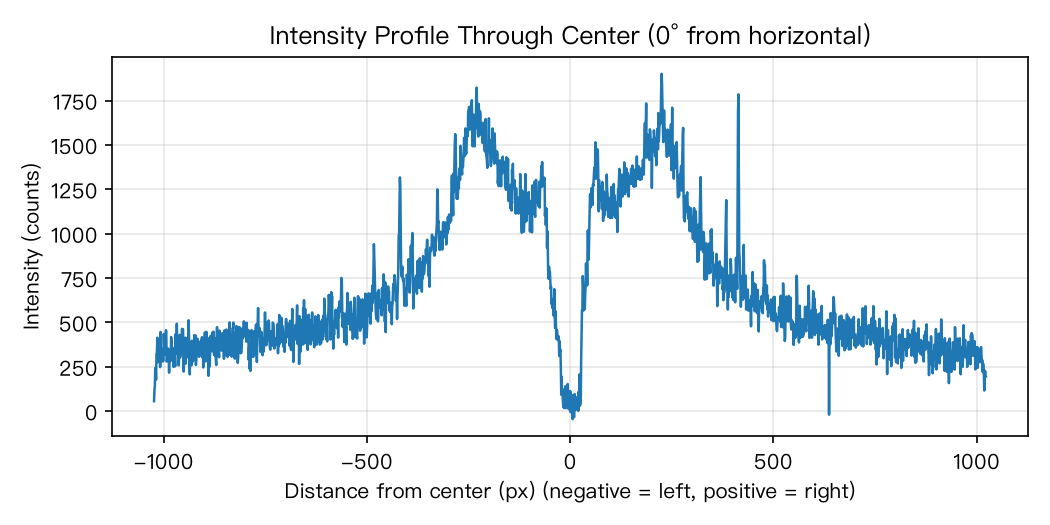
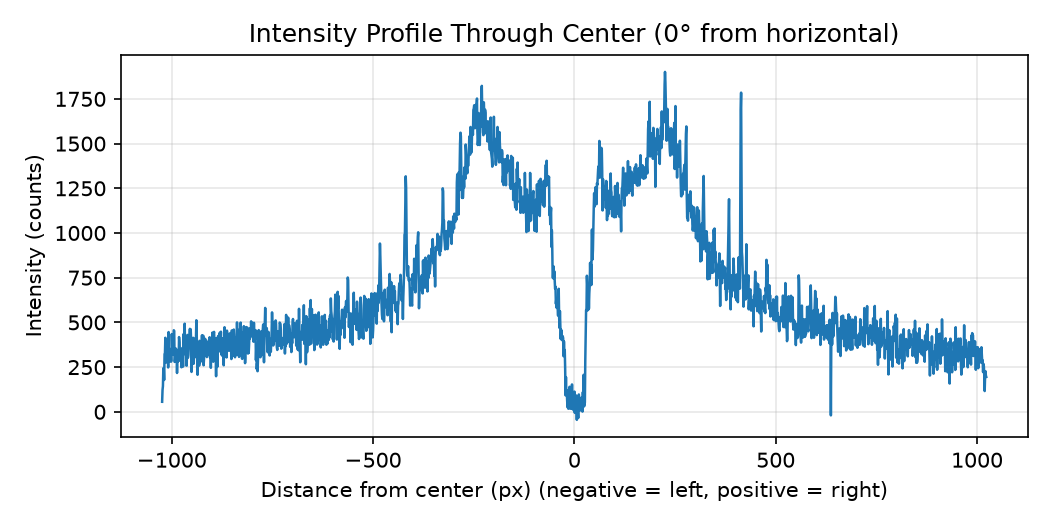
fix: prevent text clipping in diffraction figures

Changed region(s): [[0.0, 0.0305, 0.9752, 0.8229], [0.1219, 0.8229, 0.9752, 0.9752]]

diff --git a/scripts/view_diffraction.py b/scripts/view_diffraction.py
@@ -1,60 +1,36 @@
 #!/usr/bin/env python3
-"""二维衍射图查看器：显示图像（颜色条 + 坐标轴标签）并绘制过圆心的线剖面。
-
-用法（在项目根目录运行）：
-    python scripts/view_diffraction.py --file data/LMFP_1_atten0-00029 copy.tif
-    python scripts/view_diffraction.py --file data/你的文件.tif --center 1020,1024
-    python scripts/view_diffraction.py --file data/你的文件.tif --angle 45
-
-名词速查：
-    像素 (px)      —— 探测器上的一个小格子，图上的最小单元
-    强度 (counts)  —— 一个像素收到的 X 射线光子计数，越大越亮
-    圆心/光斑中心  —— 所有衍射环共同的中心（直射光束打在探测器上的位置）
-    线剖面          —— 沿一条直线把强度读出来，变成"位置 → 强度"的曲线
+"""查看二维衍射图像，并绘制穿过中心的线性剖面图.
 """
 
-# ══ 第 1 步：导入需要的工具包 ══════════════════════════════════════
-# import 的意思是"把别人（或自己）写好的代码拿过来用"。
-# 每行 import 都只拿我们真正用到的东西，没有多余导入。
+import argparse
+from pathlib import Path
 
-import argparse                 # Python 自带的"命令行参数解析器"：读懂用户敲的命令
-from pathlib import Path        # 处理文件路径的现代工具（比字符串拼路径好用）
+from matplotlib.colors import LogNorm
+import matplotlib.pyplot as plt
 
-import numpy as np              # 数值计算核心库；np.xxx 都是它的功能
-from matplotlib.colors import LogNorm   # 画图时把强度转成"对数色标"
-import matplotlib.pyplot as plt         # 画图库，plt.xxx 都是它的功能
-
-from xrd_toolkit.config import settings                   # 自己的：全局配置
-from xrd_toolkit.services.data_loader import load_diffraction_image  # 自己的：读图像
-from xrd_toolkit.core.processor import line_profile       # 自己的：线剖面
-
-# ══ 全局绘图设置 ════════════════════════════════════════════════════
-# matplotlib 默认字体不含中文，不设置的话图上的中文标题/标签会变成方框。
-plt.rcParams["font.sans-serif"] = ["PingFang SC", "Hiragino Sans GB",
-                                   "Arial Unicode MS", "DejaVu Sans"]
-plt.rcParams["axes.unicode_minus"] = False  # 让坐标轴上的负号 "-" 正常显示
+from xrd_toolkit.services.data_loader import load_diffraction_image
+from xrd_toolkit.core.processor import line_profile
 
 
 def main() -> None:
-    """程序主流程：读命令 → 读图像 → 画两张图并保存。"""
 
-    # ── 第 2 步：读懂用户敲的命令（argparse）──
+    # ── 第 1 步：读懂用户敲的命令（argparse）──
     # 用户敲 python scripts/view_diffraction.py --file a.tif --center 1,2
     # 时，argparse 会把它拆成 args.file、args.center 等变量。
-    parser = argparse.ArgumentParser(description="查看二维衍射图并绘制过圆心的线剖面")
+    parser = argparse.ArgumentParser(description="View a 2D diffraction image and plot a line profile through the center")
     parser.add_argument("--file", required=True,
-                        help="衍射图像文件路径（.edf/.tif/.cbf 等）")
+                        help="Path to the diffraction image file (.edf/.tif/.cbf, etc.)")
     parser.add_argument("--angle", type=float, default=0.0,
-                        help="剖面直线与水平方向夹角（度），默认 0")
+                        help="Angle between the profile line and the horizontal axis (degrees), default 0")
     parser.add_argument("--center",
-                        help="环圆心像素坐标 cx,cy（如 1020,1024）；不传默认图像几何中心")
-    parser.add_argument("--outdir", default="outputs", help="PNG 保存目录，默认 outputs/")
+                        help="Ring center pixel coordinates cx,cy (e.g. 1020,1024); defaults to the image geometric center")
+    parser.add_argument("--outdir", default="outputs", help="Directory to save the PNGs, default outputs/")
     args = parser.parse_args()
 
     outdir = Path(args.outdir)
     outdir.mkdir(exist_ok=True)  # 目录不存在就创建；exist_ok 让已存在时不报错
 
-    # ── 第 3 步：读图像 ──
+    # ── 第 2 步：读图像 ──
     # data 是一个 2D numpy 数组：data[行][列] = 该像素的强度。
     # 行号从上往下数，列号从左往右数，每个元素是一个浮点数。
     data = load_diffraction_image(args.file)
@@ -67,68 +43,85 @@ def main() -> None:
     # 所以传给 line_profile 时要反过来存成 (行, 列)。
     center = None
     if args.center:
-        # 【知识点】生成器表达式：(处理(s) for s in 一串东西)
+        # 生成器表达式：(处理(s) for s in 一串东西)
         # = "对这一串里的每个 s 做处理"的简写。
         # split(",") 把 "1020,1024" 按逗号切开 → ["1020", "1024"]，
         # float(s) 把字符串 "1020" 变成数字 1020.0。
-        # 【知识点】元组：(cy, cx) 是"打包的一组值"，顺序不能乱。
+        # 元组：(cy, cx) 顺序不能乱。
         cx, cy = (float(s) for s in args.center.split(","))
         center = (cy, cx)
 
     h, w = data.shape  # 数组形状：h = 行数（高），w = 列数（宽）
 
-    # 【知识点】f-string：字符串前加 f，花括号 {} 里的变量会被替换成它的值。
+    # f-string：字符串前加 f，花括号 {} 里的变量会被替换成它的值。
     # {data.min():.1f} 里的 :.1f 表示"保留 1 位小数"（浮点数格式化）。
-    print(f"图像尺寸: {w} × {h}，强度范围: {data.min():.1f} ~ {data.max():.1f}")
+    print(f"Image size: {w} x {h}, intensity range: {data.min():.1f} ~ {data.max():.1f}")
 
-    # ── 第 4 步：图 1 —— 衍射图本身 ──
-    # subplots 创建"一张画布 fig + 一块画板 ax"，之后画东西都往 ax 上画。
-    fig, ax = plt.subplots(figsize=(6, 5.5))
+    # ── 第 3 步：图 1 —— 衍射图本身 ──
+    # subplots 创建"画布 fig + 画板 ax"。
+    # 【可调】figsize=(宽, 高)，单位英寸：调大→图更大更清晰（文件也更大），调小→反之
+    fig, ax = plt.subplots(figsize=(5, 4.5))
 
-    # imshow：把二维数组画成彩色图。三个关键参数：
-    #   cmap="viridis" : 用"蓝→绿→黄"的连续色带表示强度（色觉障碍者也分得清）
-    #   norm=LogNorm() : 对数色标——真实衍射图弱环和强环差几万倍，
-    #                    线性色标下弱环会全黑看不见
-    #   origin="lower" : 数组第 0 行画在下方（数学坐标习惯，探测器也是这么摆放的）
+    # 【可调】imshow 的显示参数：
+    #   cmap="magma"   色带（颜色主题）：magma=黑→紫→橙黄；
+    #                  viridis=蓝绿黄、gray=黑白、jet=彩虹、hot=黑红黄白
+    #   vmin=100       颜色条下限：调小（如 10）→更弱的环也看得见，但背景更亮更花
+    #   vmax=50000     颜色条上限：调大（如 200000）→最亮处不糊成一团，中心细节更多
+    #                  （vmin/vmax 一起调 = 调对比度）
+    #   LogNorm        对数色标：删掉 norm=... 就变线性色标；强弱差几万倍时
+    #                  线性图几乎全黑，所以衍射图一般用对数
+    #   origin         行方向："lower"=第 0 行画在下方（现在用的）；"upper"=上下翻转
     im = ax.imshow(data, cmap="magma", norm=LogNorm(vmin=100, vmax=50000), origin="lower")
 
-    ax.set_title(f"2D Diffraction Image ({tag}, log scale)")
+    # 标题分两行：文件名很长，一行放不下会超出画布被裁掉
+    ax.set_title(f"2D Diffraction Image\n({tag}, log scale)")
     ax.set_xlabel("Detector pixel X (px)")
     ax.set_ylabel("Detector pixel Y (px)")
+    # 显式指定刻度：防止自动刻度跑到数据范围外、把文字挤出画布
+    ax.set_xticks(range(0, w, 500))
+    ax.set_yticks(range(0, h, 500))
 
     # 用红色十字标记剖面经过的圆心，方便核对位置对不对
+    # 【可调】红线的样子：color="r" 颜色（"r"红 "b"蓝 "w"白）；linewidth 线宽越大越粗；
+    # alpha 透明度（0=全透明 ~ 1=不透明）；ms=14 十字大小；mew=2 十字描边粗细
     prof_cy, prof_cx = center if center is not None else (h / 2.0, w / 2.0)
     ax.axhline(prof_cy, color="r", linewidth=0.8, alpha=0.7)  # 过圆心的水平红线
     ax.axvline(prof_cx, color="r", linewidth=0.8, alpha=0.7)  # 过圆心的竖直红线
-    ax.plot(prof_cx, prof_cy, "+", color="r", ms=14, mew=2)   # 圆心处的红色十字
+    # ax.plot(prof_cx, prof_cy, "+", color="r", ms=14, mew=2)   # 圆心处的红色十字
 
-    cbar = fig.colorbar(im, ax=ax, pad=0.02)   # 颜色条：把颜色和强度数值对应起来
+    # 【可调】pad=0.02 是颜色条与图的间距，调大离得更远
+    # shrink=0.85 让颜色条短一点，上下刻度不贴到画布边缘
+    cbar = fig.colorbar(im, ax=ax, pad=0.02, shrink=0.85)   # 颜色条：把颜色和强度数值对应起来
     cbar.set_label("Intensity (counts)")
 
     fig.tight_layout()   # 自动收紧边距，防止标签被裁掉
-    fig.savefig(outdir / f"{tag}_image.png", dpi=150)  # 存成 PNG，dpi 控制清晰度
+    fig.subplots_adjust(bottom=0.20)   # 底部多留白：颜色条最下刻度 10^1 不会被裁
+    # 【可调】dpi=150 保存清晰度：改成 300 更清晰但文件更大（印刷用 300）
+    fig.savefig(outdir / f"{tag}_image.png", dpi=150)  # 存成 PNG
 
-    # ── 第 5 步：图 2 —— 过圆心的强度剖面 ──
+    # ── 第 4 步：图 2 —— 过圆心的强度剖面 ──
     # line_profile 返回两个数组：
     #   t       —— 采样点到圆心的距离（像素，圆心左侧为负、右侧为正）
     #   profile —— 每个采样点的强度
     t, profile = line_profile(data, center=center, angle_deg=args.angle)
 
+    # 【可调】figsize=(7, 3.5) 剖面图更宽更扁，改数值可调宽高比
     fig2, ax2 = plt.subplots(figsize=(7, 3.5))
+    # 【可调】linewidth=1.2 曲线粗细：改大更粗更醒目，改小更细
     ax2.plot(t, profile, linewidth=1.2)  # plot(x, y)：把点连成曲线
     ax2.set_title(f"Intensity Profile Through Center ({args.angle:g}° from horizontal)")
     ax2.set_xlabel("Distance from center (px) (negative = left, positive = right)")
     ax2.set_ylabel("Intensity (counts)")
+    ax2.set_xticks([-1000, -500, 0, 500, 1000])  # 显式刻度：自动刻度会超出范围被裁
+    # 【可调】网格：grid(False) 关掉网格；alpha=0.3 网格深浅（0=最浅 ~ 1.0=最深）
     ax2.grid(True, alpha=0.3)  # 浅色网格线，方便读数
     fig2.tight_layout()
-    fig2.savefig(outdir / f"{tag}_profile.png", dpi=150)
+    fig2.savefig(outdir / f"{tag}_profile.png", dpi=150)  # 【可调】dpi 同图 1：清晰度与文件大小的权衡
 
-    print(f"图片已保存 → {outdir.resolve()}/")
+    print(f"Figures saved -> {outdir.resolve()}/")
     plt.show()  # 交互运行时弹窗显示；保存的 PNG 不受影响
 
 
 # ══ 程序入口 ════════════════════════════════════════════════════════
-# 这个 if 的意思是："只有直接运行这个文件时才执行 main()；
-# 如果它被别人 import，就什么都不做"。这是 Python 的标准写法。
 if __name__ == "__main__":
     main()
